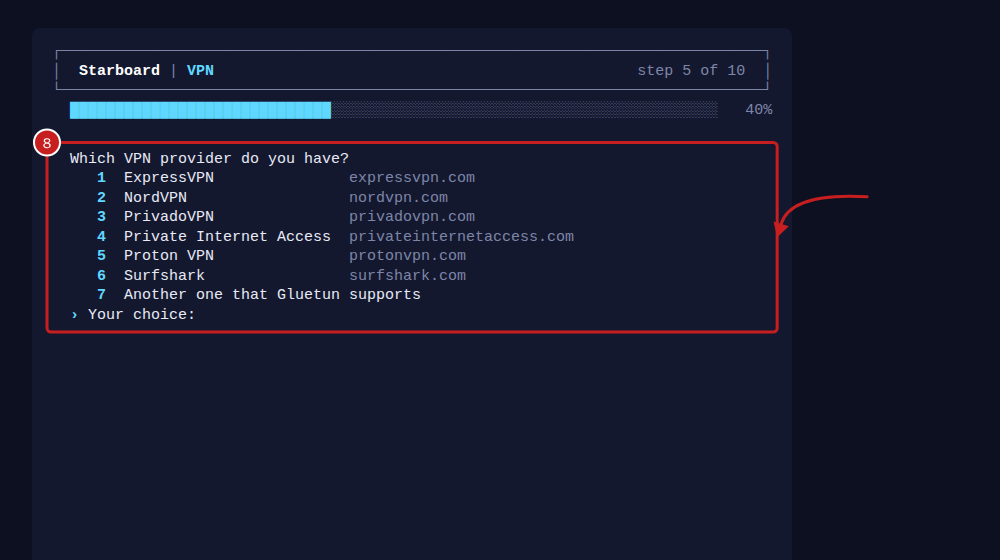
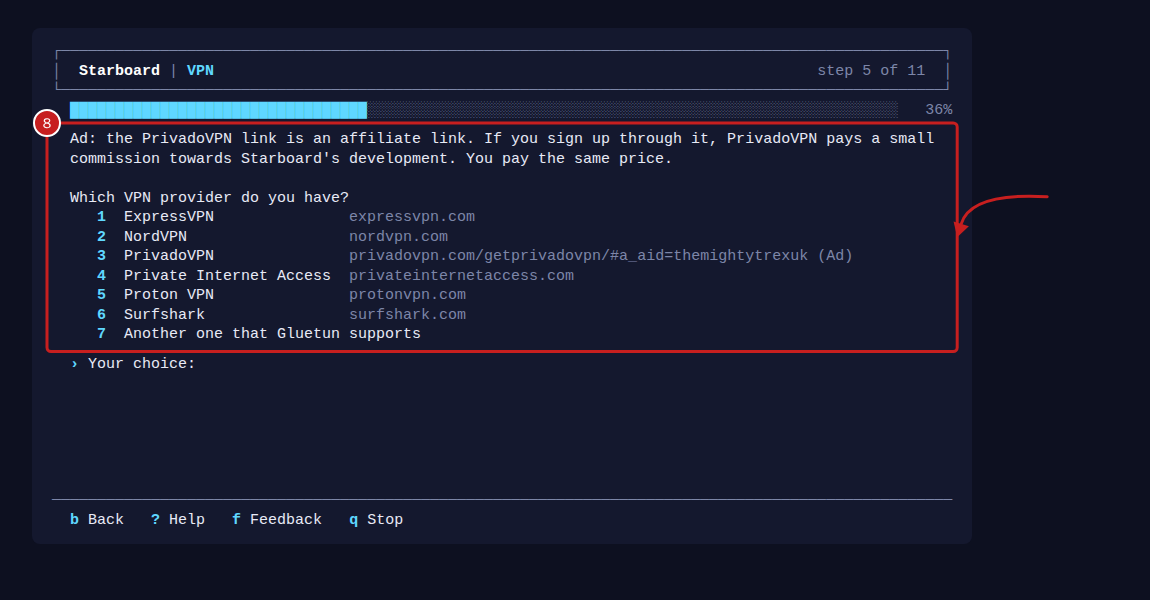
Help: the terminal VPN picture retaken from a test machine run with PrivadoVPN's Ad note and link

Changed region(s): [[0.031, 0.0607, 0.868, 0.6375], [0.062, 0.8196, 0.806, 0.8804], [0.868, 0.3036, 0.899, 0.3339]]

diff --git a/tools/screenshots/terminal/terminal-vpn.html b/tools/screenshots/terminal/terminal-vpn.html
@@ -9,4 +9,4 @@
   .l { min-height: 1.3em; }
   .t { display: inline-block; }
 </style>
-<div class="term"><div class="l"><span class="t"><span style="color:#7d86a8">┌──────────────────────────────────────────────────────────────────────────────┐</span></span></div><div class="l"><span class="t"><span style="color:#7d86a8">│</span><span style="">  </span><span style="color:#fff;font-weight:700">Starboard</span><span style="color:#7d86a8"> | </span><span style="color:#5fd7ff;font-weight:700">VPN</span><span style="">                                               </span><span style="color:#7d86a8">step 5 of 10</span><span style="">  </span><span style="color:#7d86a8">│</span></span></div><div class="l"><span class="t"><span style="color:#7d86a8">└──────────────────────────────────────────────────────────────────────────────┘</span></span></div><div class="l">  <span class="t"><span style="color:#5fd7ff">█████████████████████████████</span><span style="color:#7d86a8">░░░░░░░░░░░░░░░░░░░░░░░░░░░░░░░░░░░░░░░░░░░</span><span style="">  </span><span style="color:#7d86a8"> 40%</span></span></div><div class="l"></div><div id="providers" style="display:inline-block;margin:8px 0;padding:2px 0"><div class="l">  <span class="t"><span style="">Which VPN provider do you have?                                               </span></span></div><div class="l">     <span class="t"><span style="color:#5fd7ff;font-weight:700">1</span><span style="">  ExpressVPN               </span><span style="color:#7d86a8">expressvpn.com</span><span style="">                                 </span></span></div><div class="l">     <span class="t"><span style="color:#5fd7ff;font-weight:700">2</span><span style="">  NordVPN                  </span><span style="color:#7d86a8">nordvpn.com</span><span style="">                                    </span></span></div><div class="l">     <span class="t"><span style="color:#5fd7ff;font-weight:700">3</span><span style="">  PrivadoVPN               </span><span style="color:#7d86a8">privadovpn.com</span><span style="">                                 </span></span></div><div class="l">     <span class="t"><span style="color:#5fd7ff;font-weight:700">4</span><span style="">  Private Internet Access  </span><span style="color:#7d86a8">privateinternetaccess.com</span><span style="">                      </span></span></div><div class="l">     <span class="t"><span style="color:#5fd7ff;font-weight:700">5</span><span style="">  Proton VPN               </span><span style="color:#7d86a8">protonvpn.com</span><span style="">                                  </span></span></div><div class="l">     <span class="t"><span style="color:#5fd7ff;font-weight:700">6</span><span style="">  Surfshark                </span><span style="color:#7d86a8">surfshark.com</span><span style="">                                  </span></span></div><div class="l">     <span class="t"><span style="color:#5fd7ff;font-weight:700">7</span><span style="">  Another one that Gluetun supports                                       </span></span></div><div class="l">  <span class="t"><span style="color:#5fd7ff;font-weight:700">›</span><span style=""> Your choice:                                                                </span></span></div></div><div class="l"></div><div class="l"></div><div class="l"></div><div class="l"></div><div class="l"></div><div class="l"></div><div class="l"></div><div class="l"></div><div class="l"></div><div class="l"></div><div class="l"></div><div class="l"></div><div class="l"></div><div class="l"></div><div class="l"><span class="t"><span style="color:#7d86a8">────────────────────────────────────────────────────────────────────────────────</span></span></div><div class="l">  <span class="t"><span style="color:#5fd7ff;font-weight:700">b</span><span style=""> Back   </span><span style="color:#5fd7ff;font-weight:700">?</span><span style=""> Help   </span><span style="color:#5fd7ff;font-weight:700">f</span><span style=""> Feedback   </span><span style="color:#5fd7ff;font-weight:700">q</span><span style=""> Stop                                         </span></span></div></div>
+<div class="term"><div class="l"><span class="t"><span style="color:#7d86a8">┌──────────────────────────────────────────────────────────────────────────────────────────────────┐</span></span></div><div class="l"><span class="t"><span style="color:#7d86a8">│</span><span style="">  </span><span style="color:#fff;font-weight:700">Starboard</span><span style="color:#7d86a8"> | </span><span style="color:#5fd7ff;font-weight:700">VPN</span><span style="">                                                                   </span><span style="color:#7d86a8">step 5 of 11</span><span style="">  </span><span style="color:#7d86a8">│</span></span></div><div class="l"><span class="t"><span style="color:#7d86a8">└──────────────────────────────────────────────────────────────────────────────────────────────────┘</span></span></div><div class="l">  <span class="t"><span style="color:#5fd7ff">█████████████████████████████████</span><span style="color:#7d86a8">░░░░░░░░░░░░░░░░░░░░░░░░░░░░░░░░░░░░░░░░░░░░░░░░░░░░░░░░░░░</span><span style="">  </span><span style="color:#7d86a8"> 36%</span></span></div><div id="providers" style="display:inline-block;margin:8px 0;padding:2px 0"><div class="l">  <span class="t"><span style="">Ad: the PrivadoVPN link is an affiliate link. If you sign up through it, PrivadoVPN pays a small  </span></span></div><div class="l">  <span class="t"><span style="">commission towards Starboard&#x27;s development. You pay the same price.                               </span></span></div><div class="l"></div><div class="l">  <span class="t"><span style="">Which VPN provider do you have?                                                                   </span></span></div><div class="l">     <span class="t"><span style="color:#5fd7ff;font-weight:700">1</span><span style="">  ExpressVPN               </span><span style="color:#7d86a8">expressvpn.com</span><span style="">                                                     </span></span></div><div class="l">     <span class="t"><span style="color:#5fd7ff;font-weight:700">2</span><span style="">  NordVPN                  </span><span style="color:#7d86a8">nordvpn.com</span><span style="">                                                        </span></span></div><div class="l">     <span class="t"><span style="color:#5fd7ff;font-weight:700">3</span><span style="">  PrivadoVPN               </span><span style="color:#7d86a8">privadovpn.com/getprivadovpn/#a_aid=themightytrexuk (Ad)</span><span style="">           </span></span></div><div class="l">     <span class="t"><span style="color:#5fd7ff;font-weight:700">4</span><span style="">  Private Internet Access  </span><span style="color:#7d86a8">privateinternetaccess.com</span><span style="">                                          </span></span></div><div class="l">     <span class="t"><span style="color:#5fd7ff;font-weight:700">5</span><span style="">  Proton VPN               </span><span style="color:#7d86a8">protonvpn.com</span><span style="">                                                      </span></span></div><div class="l">     <span class="t"><span style="color:#5fd7ff;font-weight:700">6</span><span style="">  Surfshark                </span><span style="color:#7d86a8">surfshark.com</span><span style="">                                                      </span></span></div><div class="l">     <span class="t"><span style="color:#5fd7ff;font-weight:700">7</span><span style="">  Another one that Gluetun supports                                                           </span></span></div></div><div class="l">  <span class="t"><span style="color:#5fd7ff;font-weight:700">›</span><span style=""> Your choice:                                                                                    </span></span></div><div class="l"></div><div class="l"></div><div class="l"></div><div class="l"></div><div class="l"></div><div class="l"></div><div class="l"><span class="t"><span style="color:#7d86a8">────────────────────────────────────────────────────────────────────────────────────────────────────</span></span></div><div class="l">  <span class="t"><span style="color:#5fd7ff;font-weight:700">b</span><span style=""> Back   </span><span style="color:#5fd7ff;font-weight:700">?</span><span style=""> Help   </span><span style="color:#5fd7ff;font-weight:700">f</span><span style=""> Feedback   </span><span style="color:#5fd7ff;font-weight:700">q</span><span style=""> Stop                                                             </span></span></div></div>

diff --git a/docs/help/topics/set-up-in-the-terminal.md b/docs/help/topics/set-up-in-the-terminal.md
@@ -39,10 +39,10 @@ takes about 10 minutes, plus the time to download the apps.
    ![The What to set up step in the terminal, with Basics, Full install, Everything and Let me choose (step 7) outlined](../images/set-up-in-the-terminal-1-what-to-set-up.png)
 
 8. **VPN**, if you chose it (every install has one): type the number of your provider. Each is listed with its
-   website. Nothing is chosen for you here, so Enter on its own asks again. If yours is not listed, choose
+   website. PrivadoVPN's link is an affiliate link: it is marked **(Ad)**, and a note above the list says so. Nothing is chosen for you here, so Enter on its own asks again. If yours is not listed, choose
    **Another one that Gluetun supports** and type its name as Gluetun's list writes it. Then its details: the
    password or key does not show as you type. Then **Usenet**, for NZBGet or SABnzbd: some providers, and what Usenet may be used for.
-   ![The VPN step in the terminal, with the list of VPN providers and their websites (step 8) outlined](../images/set-up-in-the-terminal-2-vpn.png)
+   ![The VPN step in the terminal, with the Ad note and the list of VPN providers and their websites (step 8) outlined](../images/set-up-in-the-terminal-2-vpn.png)
 
 9. **Check:** read the list, then press Enter (**Yes**) to write the apps' files, and again to start them.
    Downloading them can take several minutes. Then Starboard waits up to two minutes for the apps that started to
